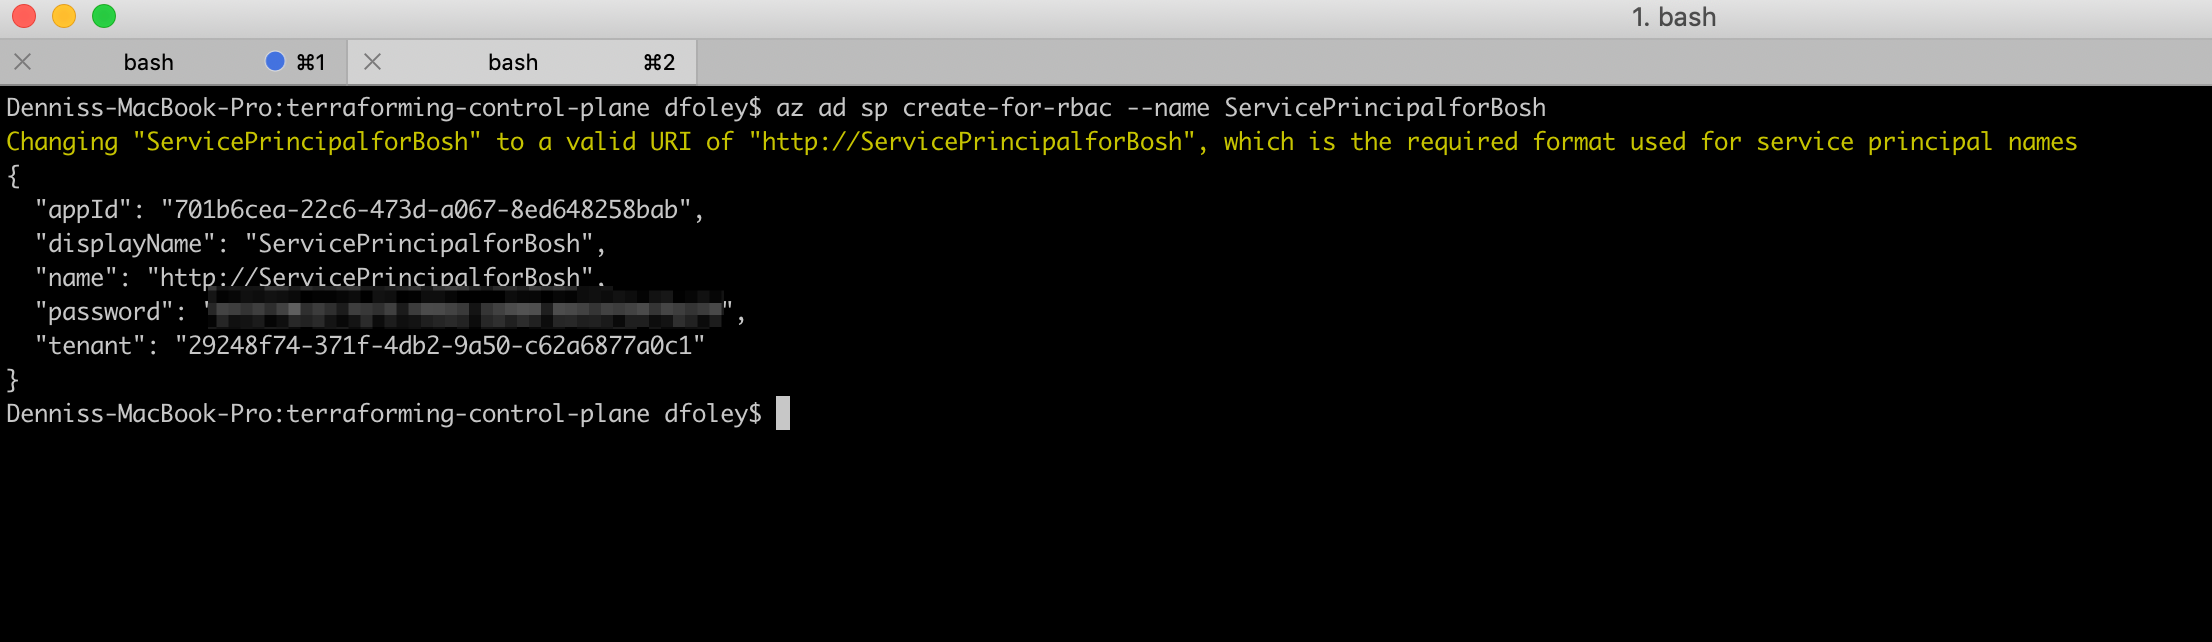
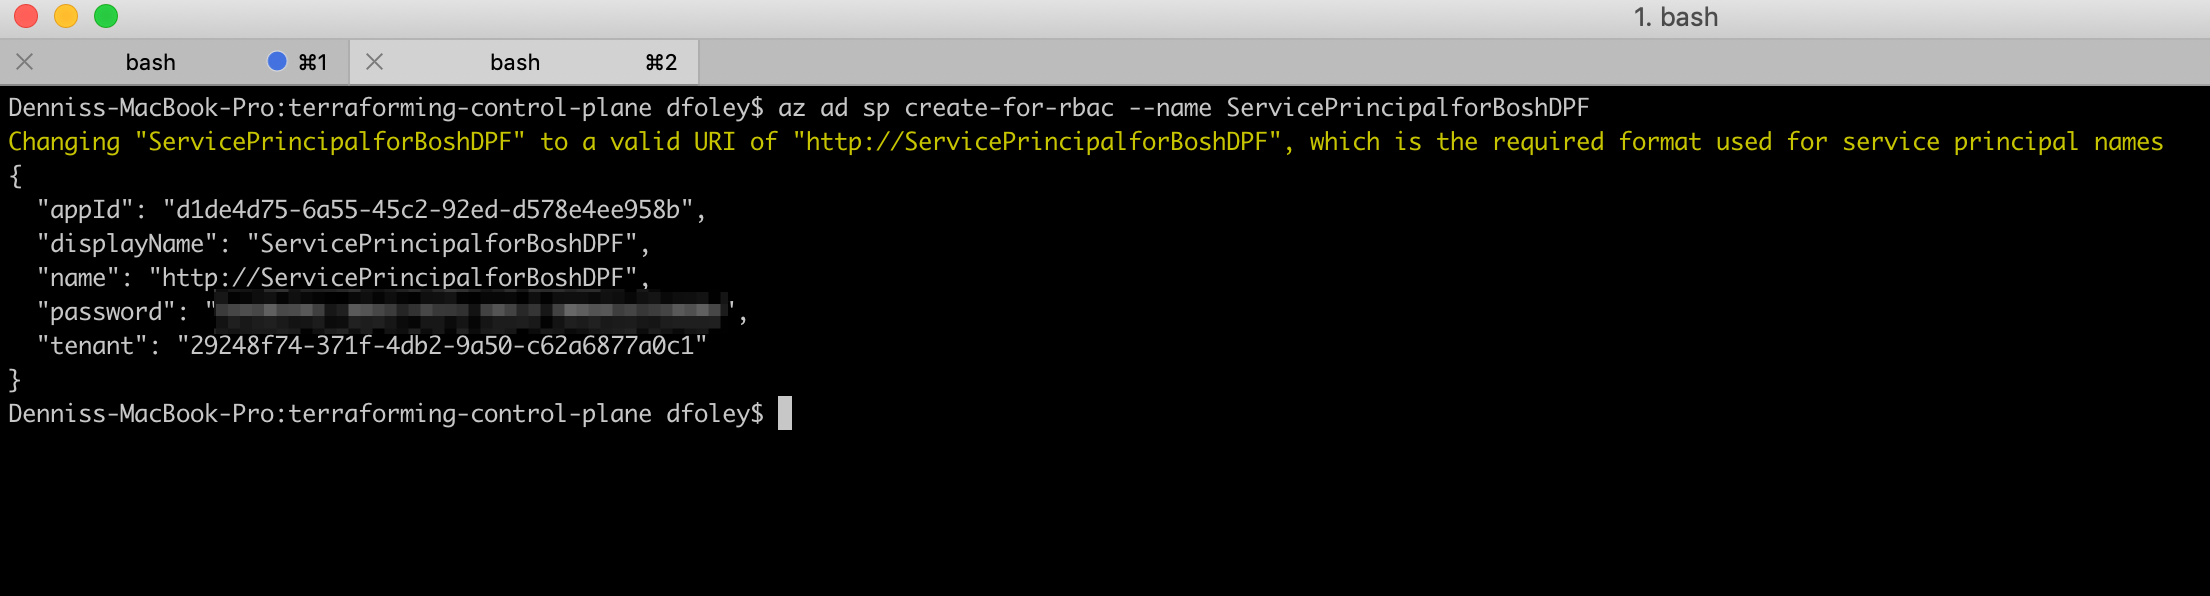
Added scripts to download Control Plane Components

diff --git a/README.md b/README.md
@@ -66,7 +66,7 @@ az account list
 - Create Service Account for Bosh. For more details please view [Azure Documentation](https://docs.microsoft.com/en-us/cli/azure/ad/sp?view=azure-cli-latest)
 
 ```bash
-az ad sp create-for-rbac --name ServicePrincipalforBosh
+az ad sp create-for-rbac --name ServicePrincipalforBosh<your initials>
 ```
 
 ![](images/image2.5.png)
@@ -183,6 +183,11 @@ chmod 0600 $OPS_MANAGER_KEY_PATH
 export OM_TARGET="https://$(terraform output ops_manager_dns)"
 export OM_USERNAME="admin"
 export OM_PASSWORD="$(terraform output ops_manager_password)"
+export OM_IP="$(terraform output ops_manager_ip)"
+ssh -i $OPS_MANAGER_KEY_PATH ubuntu@$OM_IP
+scp -i $OPS_MANAGER_KEY_PATH ../../azure-platform-automation-example/scripts/setupPivNet.sh ubuntu@$OM_IP:~/.
+scp -i $OPS_MANAGER_KEY_PATH ../../azure-platform-automation-example/scripts/getControlPlaneComponents_v31.sh ubuntu@$OM_IP:~/.
+scp -i $OPS_MANAGER_KEY_PATH ubuntu@$OM_IP:~/apps/control-plane*.yml .
 ```
 
 ![](images/image16.png)
@@ -327,6 +332,28 @@ fly login --target dev -k -c https://$(terraform output control_plane_domain)
 ```
 
 ![](images/image27.png)
+
+## Deploye Pivotal Cloud Foundry via Platform Automation
+
+### **STEP 7**: Add to Credhub
+
+- If you need to setup your environment run the following commands.
+
+```bash
+az login
+export OM_TARGET="https://$(terraform output ops_manager_dns)"
+export OM_USERNAME="admin"
+export OM_PASSWORD="$(terraform output ops_manager_password)"
+export OPS_MANAGER_KEY_PATH=./ops_manager_ssh_private_key
+eval "$(om --skip-ssl-validation bosh-env --ssh-private-key $OPS_MANAGER_KEY_PATH)"
+```
+
+- Set PivNet API Token in Credhub
+
+```bash
+credhub login
+credhub set --name /pipeline/dev/pivnet-token --type value --value "Your PivNet Token"
+```
 
 
 
